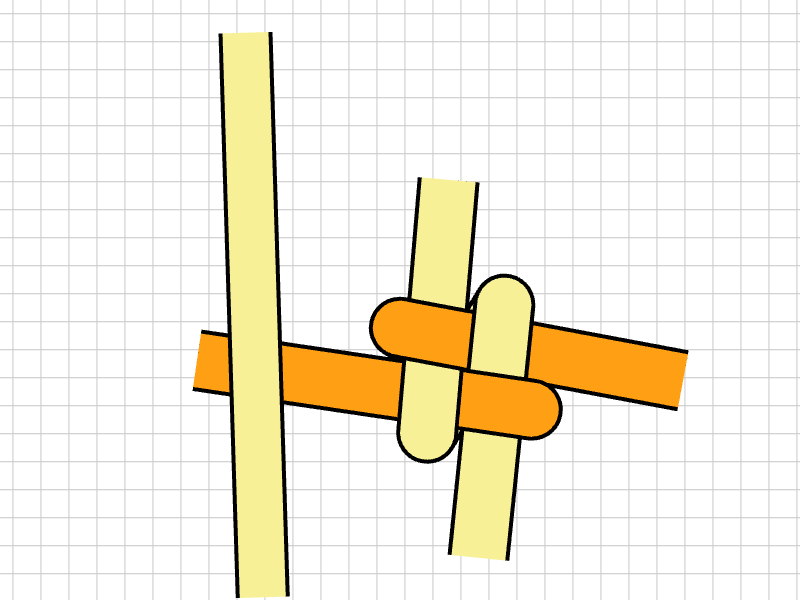
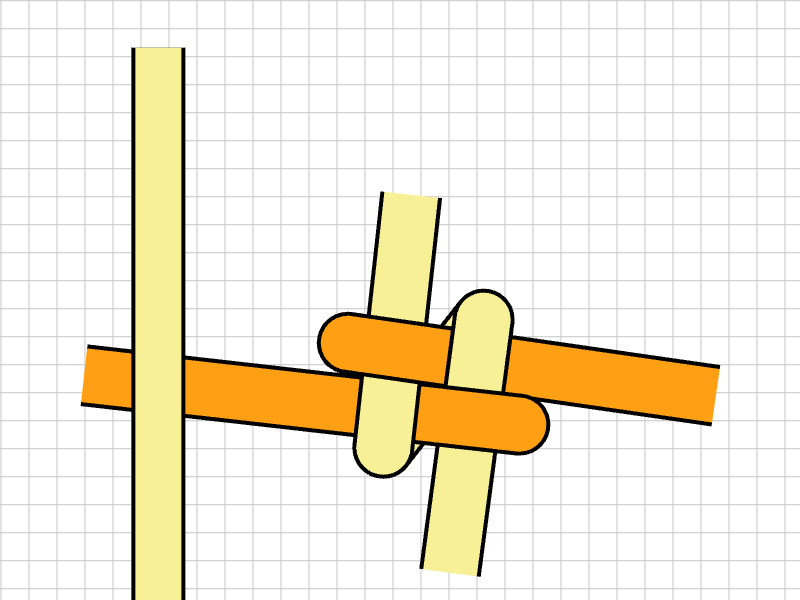
The README wears the app's own marks, and the 2D half its own drawing
The bullet icons are now the studio's actual SVG marks -- the weave
tool, the attach hook, the move cross, the level slabs, the mask
bands, the undo arrow -- extracted from the panel and kept in
docs/readme/icons/. A bullet with no mark of its own in the app gets
plain text rather than a borrowed emoji, and the link row loses its
emoji the same way.

The concept pair's top-down half is redrawn to the composition the
project author asked for: the long strand held vertical, the knot
spread wide with its arms leaning, each orange run ending in its
rounded stop at the knot.

Claude-Session: https://claude.ai/code/session_015EMfi1FCPAYg6Aw5oEo1uM

diff --git a/README.md b/README.md
@@ -4,11 +4,11 @@
 gets a real thickness, its layer number becomes its height, and a mask stops being paint and becomes
 a weave you can orbit.
 
-🧶 **[open the studio](https://ysetbon.github.io/Scoubidou3D/app/)** ·
-🌐 **[the site](https://ysetbon.github.io/Scoubidou3D/)** ·
-🌀 **[the twist study](https://ysetbon.github.io/Scoubidou3D/twist/)** ·
-🧪 **[the MXN lab](https://ysetbon.github.io/Scoubidou3D/mxn/)** ·
-🔗 **[every link](docs/links.md)**
+**[open the studio](https://ysetbon.github.io/Scoubidou3D/app/)** ·
+**[the site](https://ysetbon.github.io/Scoubidou3D/)** ·
+**[the twist study](https://ysetbon.github.io/Scoubidou3D/twist/)** ·
+**[the MXN lab](https://ysetbon.github.io/Scoubidou3D/mxn/)** ·
+**[every link](docs/links.md)**
 
 ![two crossing strands in 3D — the yellow lace physically rides over the crossing and the orange dips under](docs/readme/weave.png)
 
@@ -77,9 +77,9 @@ fingertip. one finger orbits, pinch zooms, two fingers pan.
 
 ### what it does
 
-- 🧵 **strands → ribbons.** every strand extruded into a solid ribbon with a configurable
+- **strands → ribbons.** every strand extruded into a solid ribbon with a configurable
   **thickness**, rounded edges, rounded ends and a stroke-coloured outline.
-- 🧶 **masks → a real over/under weave.** this is the headline. in OpenStrand a `MaskedStrand`
+- <img src="docs/readme/icons/weave.svg" width="15" height="15"> **masks → a real over/under weave.** this is the headline. in OpenStrand a `MaskedStrand`
   paints one strand on top of another where they cross. here the **over** lace lifts and the
   **under** lace dips, so a single strand goes over one neighbour and under the next.
   - the **Weave** tool: click the strand that goes over, then the one it crosses. hovering lights
@@ -91,28 +91,28 @@ fingertip. one finger orbits, pinch zooms, two fingers pan.
   - **imported masks weave by themselves.** `MaskedStrand` records become over/under links, so an
     imported basket interlaces the way it was drawn. no mask on a crossing → the higher layer rides.
   - **Depth / Span / Layer-lift** tune how far the laces rise and dip and how wide the bump is.
-- 🪢 **attached strands are really joined.** an attached strand lives on another layer, so the join
+- <img src="docs/readme/icons/attach.svg" width="15" height="15"> **attached strands are really joined.** an attached strand lives on another layer, so the join
   used to float with a Z gap. now a **lofted bridge** morphs the parent's end cross-section into the
   child's start across that gap, banking gently — one continuous lace stepping between layers.
   derived from coincident endpoints, so imported files reconnect too.
-- 🎨 **colour a layer, or the whole lace.** a layer name is `set_length`, so `1_2` is the second
+- **colour a layer, or the whole lace.** a layer name is `set_length`, so `1_2` is the second
   length of lace `1`. a switch under the palette says where a colour lands — **This layer** paints
   `1_2`, **All layers** paints every length of that lace at once — and either way it's one undo. a
   lace worked through ten rounds is twenty-odd layers; recolouring it used to be twenty-odd presses.
   read off the *name*, exactly as OSS writes it, so it survives a save and a hand edit.
   ([`src/model/colour.ts`](src/model/colour.ts), `npm run check:colour`)
-- 🎡 **any colour, and none of it spent until OK.** six chips are the laces you keep; the **wheel**
+- **any colour, and none of it spent until OK.** six chips are the laces you keep; the **wheel**
   opens a picker window — sat/brightness square over a hue strip, plus a hex field. a window rather
   than a live well because hunting for a colour is a *drag*, and painting every step of that drag
   put a hundred colours through undo on the way to the one you wanted.
-- 📚 **layer order = default depth.** higher layer rides over; masks override single crossings, same
+- <img src="docs/readme/icons/mask.svg" width="15" height="15"> **layer order = default depth.** higher layer rides over; masks override single crossings, same
   as OSS. reorder and it restacks live.
-- 🪜 **levels — storeys in the stack.** **Level** adds a storey, and everything above it rests one
+- <img src="docs/readme/icons/level.svg" width="15" height="15"> **levels — storeys in the stack.** **Level** adds a storey, and everything above it rests one
   storey higher: two thicknesses, the height of a woven round (a lace over plus a lace under), which
   is what it takes for the next round to sit *on* it rather than sink into it. the storey goes in at
   the top so nothing already drawn moves. each storey is its own bar, numbered from **0**, and `▲▼`
   walk it through the stack. ([how it works](docs/layer-levels.md))
-- 🔗 **Attach & Move — OpenStrand's editing, in 3D.** a tool bar across the top of the scene (the
+- <img src="docs/readme/icons/move.svg" width="15" height="15"> **Attach & Move — OpenStrand's editing, in 3D.** a tool bar across the top of the scene (the
   undo pair, then Pan / Orbit / Move / Attach / Weave) turns endpoints into handles.
   - **Attach**: pull from a *free* (green) endpoint and a new strand is born glued to the parent,
     inheriting its look, joining the same set (`1_1` → `1_2`), stacked on top and bridged. occupied
@@ -123,17 +123,17 @@ fingertip. one finger orbits, pinch zooms, two fingers pan.
     untouched strand, pulling it brings out the **circle** and the **square**, on OSS's dashed green
     rig. put every mark home and the set folds away again.
     ([the full behaviour, and the one place it differs](docs/control-points.md))
-- ↩ **undo, recorded off the scene's own JSON.** a scene whose JSON doesn't match the last
+- <img src="docs/readme/icons/undo.svg" width="15" height="15"> **undo, recorded off the scene's own JSON.** a scene whose JSON doesn't match the last
   recording is a new recording; one that matches isn't. that single test is the whole mechanism — no
   edit declares what it changed, so a canvas drag, a slider and a mask all land in the same history,
   and an edit that ends where it began records nothing. **the camera is the exception:** orbit, pan,
   zoom and Fit change no strand, so they never record, which is also why undo never moves the camera
   back. `⌘/Ctrl+Z` and `⇧⌘/Ctrl+Shift+Z`. ([`src/model/history.ts`](src/model/history.ts),
   `npm run check:history`)
-- 🎥 **full 3D camera.** orbit, pan, zoom. one click snaps back to the familiar top-down view.
-- 📥 **import real files.** load an OpenStrand Studio / OpenStrandJS `.json` and see it in 3D. the
+- **full 3D camera.** orbit, pan, zoom. one click snaps back to the familiar top-down view.
+- **import real files.** load an OpenStrand Studio / OpenStrandJS `.json` and see it in 3D. the
   curve math is a faithful port of `strand.py::_build_curve_profile`, so curves match the original.
-- 💾 **save your own.** **Save** keeps a scene in your browser, so it's still in the dropdown after a
+- **save your own.** **Save** keeps a scene in your browser, so it's still in the dropdown after a
   refresh. **JSON** hands you the text to send on or paste back, and that same text dropped into
   `samples.ts` becomes a permanent built-in. nothing is uploaded.
 
@@ -369,7 +369,7 @@ so a flat ribbon never twists and its face points at the camera in top view, lik
 
 ## still to do
 
-- ✅ per-crossing undulation, imported masks honoured, really-connected attachments, direct 3D
+- done: per-crossing undulation, imported masks honoured, really-connected attachments, direct 3D
   editing, undo/redo, and planes inside a storey.
 - **deletion rectangles** — honour OSS's partial-mask edits (`mask_grid_dialog`) so a mask covering
   part of a crossing weaves partially.
